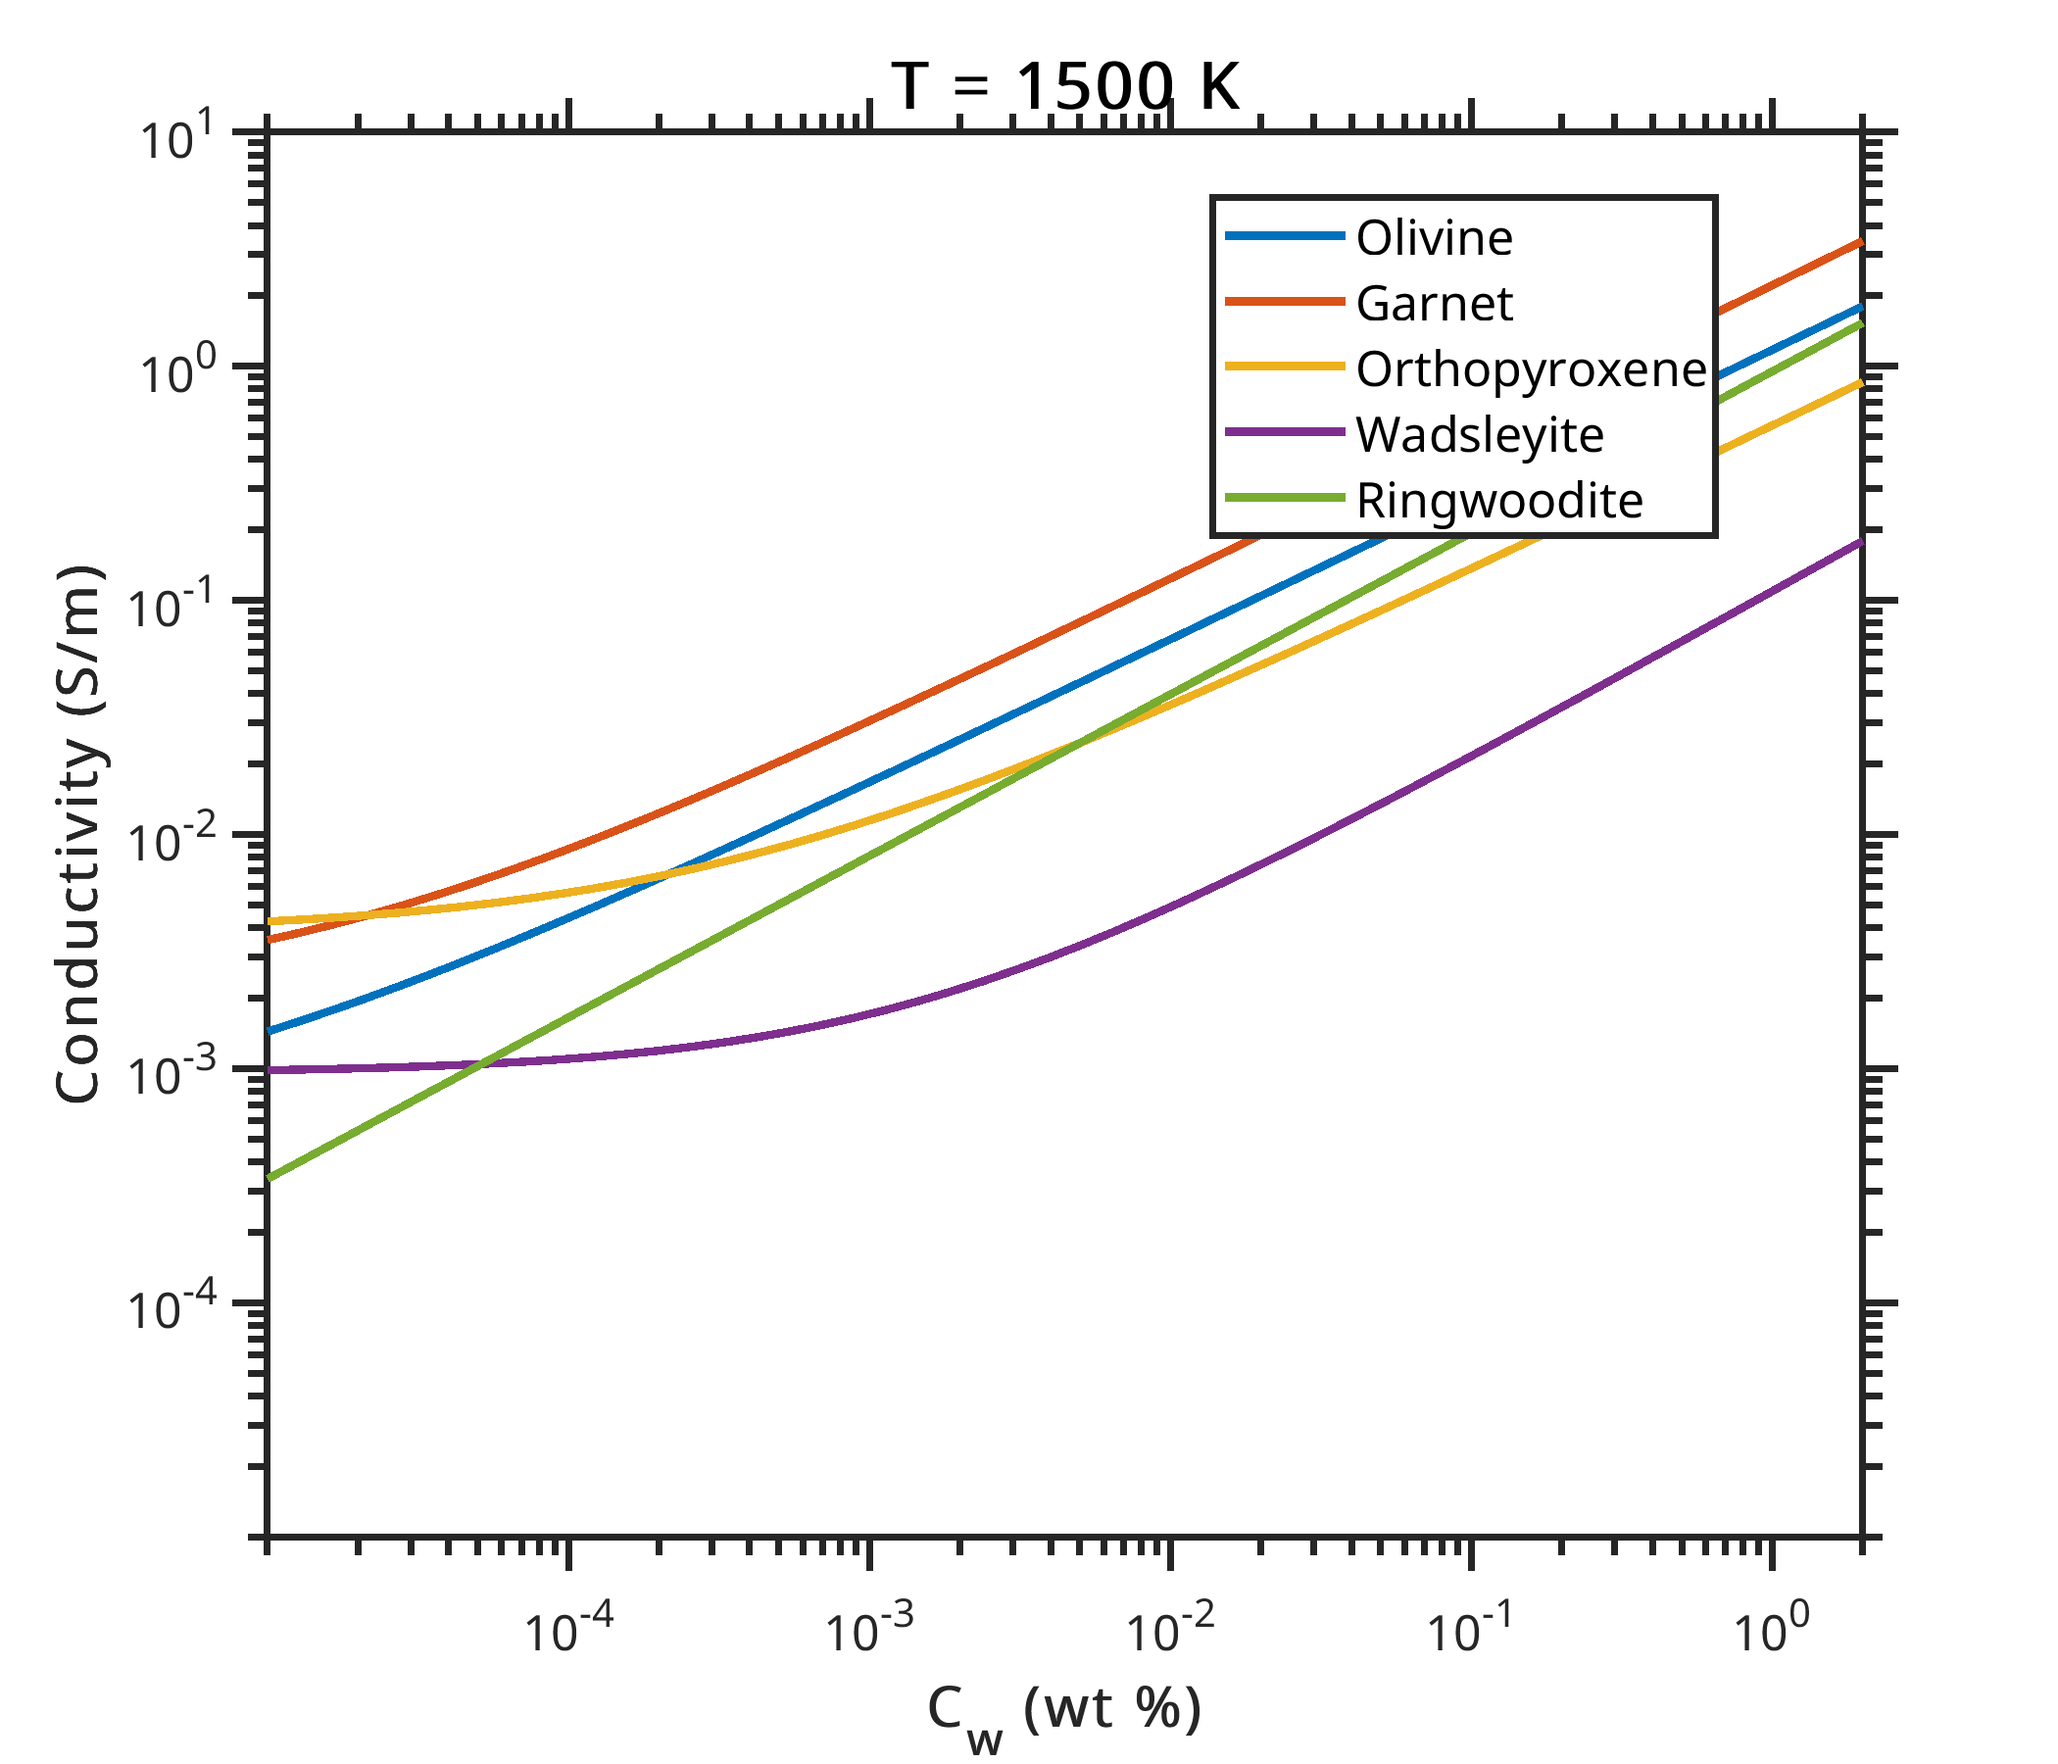
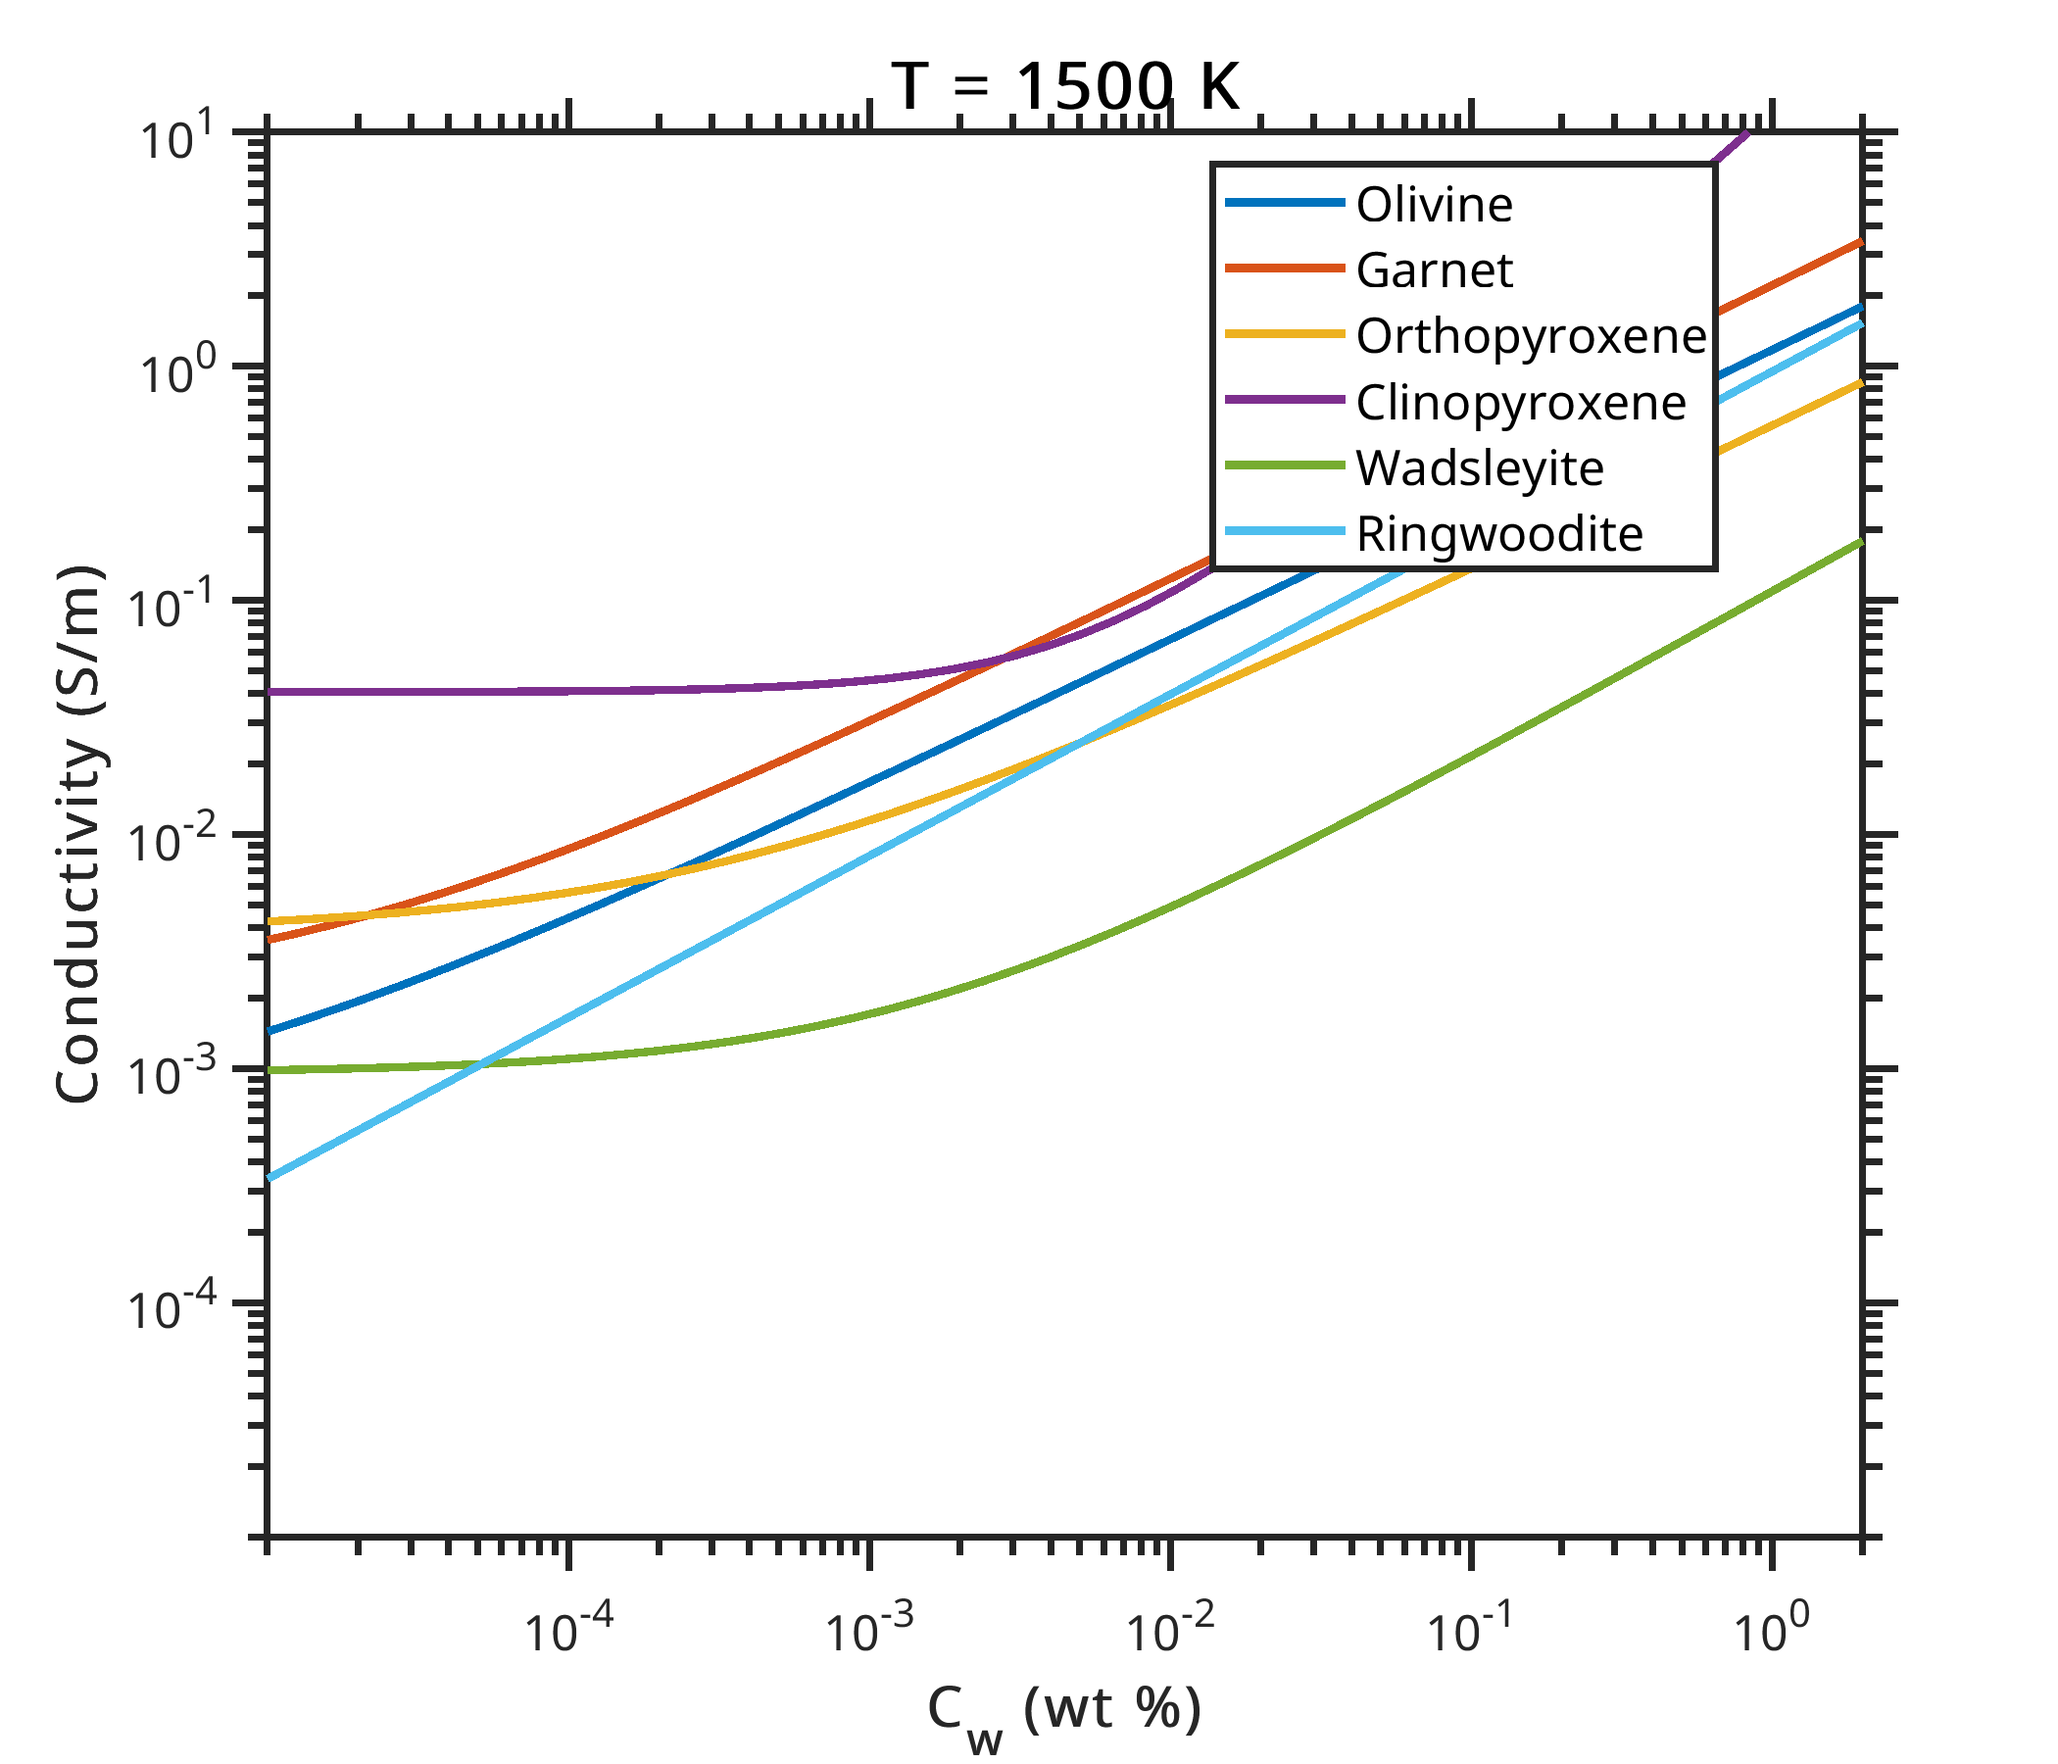
more work

diff --git a/find_pressure_for_depth.m b/find_pressure_for_depth.m
@@ -1,0 +1,55 @@
+% Function to find the pressure associated with a given depth using interpolation
+function pressure = find_pressure_for_depth(inputDepth)
+    % Define the data points (depth in km and pressure in GPa)
+    % Depth-pressure data is based on the PREM model and other references.
+    data = [
+        0, 0.00; 5, 0.15; 10, 0.29; 15, 0.44; 20, 0.58; 25, 0.73; 30, 0.88; 35, 1.02; 40, 1.17; 45, 1.31; 
+        50, 1.46; 60, 1.79; 70, 2.12; 80, 2.45; 90, 2.79; 100, 3.12; 110, 3.45; 120, 3.78; 130, 4.12; 140, 4.45;
+        150, 4.78; 160, 5.12; 170, 5.45; 180, 5.78; 190, 6.11; 200, 6.45; 210, 6.78; 220, 7.11; 230, 7.45; 240, 7.79;
+        250, 8.14; 260, 8.48; 270, 8.82; 280, 9.17; 290, 9.51; 300, 9.86; 310, 10.2; 320, 10.55; 330, 10.9; 340, 11.25;
+        350, 11.6; 360, 11.95; 370, 12.3; 380, 12.65; 390, 13.0; 400, 13.35; 410, 13.73; 420, 14.1; 430, 14.48; 440, 14.85;
+        450, 15.23; 460, 15.61; 470, 15.99; 480, 16.37; 490, 16.75; 500, 17.13; 510, 17.52; 520, 17.91; 530, 18.29; 540, 18.68;
+        550, 19.07; 560, 19.46; 570, 19.86; 580, 20.25; 590, 20.65; 600, 21.04; 610, 21.44; 620, 21.84; 630, 22.24; 640, 22.64;
+        650, 23.04; 660, 23.43; 670, 23.83; 680, 24.27; 690, 24.71; 700, 25.15; 710, 25.59; 720, 26.03; 730, 26.48; 740, 26.92;
+        750, 27.36; 760, 27.81; 770, 28.25; 780, 28.7; 790, 29.14; 800, 29.59; 810, 30.04; 820, 30.48; 830, 30.93; 840, 31.38;
+        850, 31.82; 860, 32.27; 870, 32.72; 880, 33.17; 890, 33.62; 900, 34.07; 910, 34.53; 920, 34.98; 930, 35.43; 940, 35.88;
+        950, 36.34; 960, 36.79; 970, 37.24; 980, 37.7; 990, 38.15; 1000, 38.61; 1010, 39.07; 1020, 39.53; 1030, 39.98; 1040, 40.44;
+        1050, 40.9; 1060, 41.36; 1070, 41.81; 1080, 42.28; 1090, 42.74; 1100, 43.2; 1110, 43.67; 1120, 44.13; 1130, 44.59; 1140, 45.05;
+        1150, 45.52; 1160, 45.98; 1170, 46.44; 1180, 46.91; 1190, 47.38; 1200, 47.85; 1210, 48.31; 1220, 48.78; 1230, 49.25; 1240, 49.72;
+        1250, 50.18; 1260, 50.65; 1270, 51.12; 1280, 51.59; 1290, 52.07; 1300, 52.54; 1310, 53.01; 1320, 53.49; 1330, 53.96; 1340, 54.43;
+        1350, 54.91; 1360, 55.38; 1370, 55.85; 1380, 56.33; 1390, 56.81; 1400, 57.29; 1410, 57.76; 1420, 58.24; 1430, 58.72; 1440, 59.2;
+        1450, 59.68; 1460, 60.16; 1470, 60.64; 1480, 61.12; 1490, 61.6; 1500, 62.09; 1510, 62.57; 1520, 63.05; 1530, 63.54; 1540, 64.02;
+        1550, 64.5; 1560, 64.99; 1570, 65.47; 1580, 65.96; 1590, 66.45; 1600, 66.94; 1610, 67.43; 1620, 67.92; 1630, 68.41; 1640, 68.9;
+        1650, 69.38; 1660, 69.87; 1670, 70.36; 1680, 70.86; 1690, 71.35; 1700, 71.85; 1710, 72.34; 1720, 72.84; 1730, 73.33; 1740, 73.83;
+        1750, 74.32; 1760, 74.82; 1770, 75.31; 1780, 75.81; 1790, 76.31; 1800, 76.81; 1810, 77.31; 1820, 77.81; 1830, 78.31; 1840, 78.81;
+        1850, 79.31; 1860, 79.82; 1870, 80.32; 1880, 80.82; 1890, 81.33; 1900, 81.84; 1910, 82.34; 1920, 82.85; 1930, 83.36; 1940, 83.86;
+        1950, 84.37; 1960, 84.88; 1970, 85.38; 1980, 85.9; 1990, 86.41; 2000, 86.92; 2010, 87.43; 2020, 87.95; 2030, 88.46; 2040, 88.97;
+        2050, 89.49; 2060, 90.0; 2070, 90.51; 2080, 91.03; 2090, 91.55; 2100, 92.07; 2110, 92.59; 2120, 93.11; 2130, 93.63; 2140, 94.15;
+        2150, 94.67; 2160, 95.19; 2170, 95.71; 2180, 96.24; 2190, 96.77; 2200, 97.29; 2210, 97.82; 2220, 98.35; 2230, 98.87; 2240, 99.4;
+        2250, 99.93; 2260, 100.46; 2270, 100.98; 2280, 101.52; 2290, 102.05; 2300, 102.59; 2310, 103.12; 2320, 103.66; 2330, 104.19; 2340, 104.73;
+        2350, 105.26; 2360, 105.8; 2370, 106.33; 2380, 106.88; 2390, 107.42; 2400, 107.96; 2410, 108.51; 2420, 109.05; 2430, 109.59; 2440, 110.14;
+        2450, 110.68; 2460, 111.22; 2470, 111.77; 2480, 112.32; 2490, 112.87; 2500, 113.42; 2510, 113.98; 2520, 114.53; 2530, 115.08; 2540, 115.63;
+        2550, 116.19; 2560, 116.74; 2570, 117.29; 2580, 117.85; 2590, 118.42; 2600, 118.98; 2610, 119.54; 2620, 120.1; 2630, 120.67; 2640, 121.23;
+        2650, 121.79; 2660, 122.35; 2670, 122.92; 2680, 123.49; 2690, 124.06; 2700, 124.63; 2710, 125.2; 2720, 125.77; 2730, 126.35; 2740, 126.92;
+        2750, 127.49; 2760, 128.07; 2770, 128.65; 2780, 129.23; 2790, 129.82; 2800, 130.4; 2900, 136.0
+    ];
+
+    % If inputDepth is less than or equal to the smallest depth, return the smallest pressure
+    if inputDepth <= data(1, 1)
+        pressure = data(1, 2);
+        return;
+    end
+
+    % If inputDepth is greater than or equal to the largest depth, return the largest pressure
+    if inputDepth >= data(end, 1)
+        pressure = data(end, 2);
+        return;
+    end
+
+    % Find the index of the first element that is not less than inputDepth
+    idx = find(data(:, 1) >= inputDepth, 1);
+
+    % Perform linear interpolation between the found point and the previous point
+    pressure = linearInterpolate(data(idx - 1, 1), data(idx - 1, 2), data(idx, 1), data(idx, 2), inputDepth);
+end
+

diff --git a/Karato_clinopyroxene_conductivity.m b/Karato_clinopyroxene_conductivity.m
@@ -1,8 +1,8 @@
 % ------------------------------------------------------------------------
-% FUNCTION: Karato_garnet_conductivity
+% FUNCTION: Karato_clinopyroxene_conductivity
 % ------------------------------------------------------------------------
 % DESCRIPTION:
-% Compute the conductivity of garnet using Karato's group high temperature
+% Compute the conductivity of clinopyroxene using Karato's group high temperature
 % and pressure experiments.
 %
 % FORMULA:
@@ -15,16 +15,15 @@
 %   - r1, r2 are constants that depend on the mechanism of electrical conduction.
 %   - E1, E2 are the activation energies.
 %   - V1, V2 are the activation volumes.
-%   - Subscript 1 stands for polaron conduction.
+%   - Subscript 1 stands for polaron conduction (e.g., Fe).
 %   - Subscript 2 stands for proton conduction (e.g., H).
-%   - T is absolute temperature (in Kelvin)
-%   - P is the pressure (in Pascal)
 %
 % REFERENCES:
 % Values of A, r, E, V are from:
-%   Karato, S. I. (2011). Water distribution across the mantle transition zone
-%   and its implications for global material circulation. Earth and Planetary
-%   Science Letters, 301(3–4), 413–423. https://doi.org/10.1016/j.epsl.2010.11.038
+%   Xiaozhi Yang, Hans Keppler, Catherine McCammon, Huaiwei Ni, Qunke Xia, Qicheng Fan (2011). 
+%   Effect of water on the electrical conductivity of lower crustal clinopyroxene,
+%   Journal of Geophysical Research: Solid Earth, 116(B4),
+%   https://agupubs.onlinelibrary.wiley.com/doi/full/10.1029/2010JB008010
 %
 % UNITS:
 %   - temperature: Kelvin (K); 0 K is equivalent to -273.15°C.
@@ -32,25 +31,25 @@
 %   - pressure: Pascal (Pa); 1 Pa = 1 J/m³ = 1e-6 J/cc.
 %
 % INPUTS:
-%   T   - Temperature in Kelvin.
-%   Cw  - Water content (dimensionless).
-%   P   - Pressure in Pascal.
+%   temperature   - Temperature in Kelvin.
+%   water_content - Water content (dimensionless) (wt%).
+%   pressure      - Pressure in Pascal.
 %
 % OUTPUT:
 %   sigma - Electrical conductivity (S/m).
 % ------------------------------------------------------------------------
 
-function sigma = Karato_garnet_conductivity(T, Cw, P)
+function sigma = Karato_clinopyroxene_conductivity(T, Cw, P)
     % Constants
     R = 8.314;       % Gas constant, J/(K⋅mol)
-    A1 = 10^(2.1);   % Pre-exponential factor for polaron conduction, S/m
-    A2 = 10^(2.7);   % Pre-exponential factor for proton conduction, S/m
+    A1 = 10^(2.16);  % Pre-exponential factor for polaron conduction (dry), S/m
+    A2 = 10^(3.56);  % Pre-exponential factor for proton conduction (wet), S/m
     r1 = 0;          % Empirical constant for polaron conduction
-    r2 = 0.63;       % Empirical constant for proton conduction
-    E1 = 128000;     % Activation energy for polaron conduction, J/mol
-    E2 = 70000;      % Activation energy for proton conduction, J/mol
-    V1 = 2.5;        % Activation volume for polaron conduction, cc/mol
-    V2 = -0.6;        % Activation volume for proton conduction, cc/mol
+    r2 = 1.13;       % Empirical constant for proton conduction
+    E1 = 102000;     % Activation energy for polaron conduction, J/mol
+    E2 = 71000;      % Activation energy for proton conduction, J/mol
+    V1 = 0.0;        % Activation volume for polaron conduction, cc/mol
+    V2 = 0.0;        % Activation volume for proton conduction, cc/mol
 
     % Check if temperature is greater than zero
     if T <= 0
@@ -71,8 +70,8 @@ function sigma = Karato_garnet_conductivity(T, Cw, P)
     end
 
     % Calculate conductivities
-    sigma_polaron = A1 * Cw.^r1 .* exp(-(E1 + P * V1) / (R * T));
-    sigma_proton =  A2 * Cw.^r2 .* exp(-(E2 + P * V2) / (R * T));
+    sigma_polaron = A1 * Cw^r1 * exp(-(E1 + P * V1) / (R * T));
+    sigma_proton =  A2 * Cw^r2 * exp(-(E2 + P * V2) / (R * T));
 
     % Sum the conductivities
     sigma = sigma_polaron + sigma_proton;

diff --git a/Kgroup_test.m b/Kgroup_test.m
@@ -1,3 +1,9 @@
+
+% This purpose of this script to test the results shown in the citation
+% [1] Karato, S. I. (2011). Water distribution across the mantle transition zone
+%  and its implications for global material circulation. Earth and Planetary
+%  Science Letters, 301(3–4), 413–423. https://doi.org/10.1016/j.epsl.2010.11.038
+
 clear;
 
 T = 1500;   % Temperature in Kelvin
@@ -8,10 +14,13 @@ garnet = zeros(xn, 1);
 wadsleyite = zeros(xn, 1);
 ringwoodite=zeros(xn,1);
 orthopyroxene=zeros(xn,1);
+clinopyroxene=zeros(xn,1);
+
 for i = 1:xn
     olivine(i) = Karato_olivine_conductivity(T, Cw(i), 4 * 1e9);
     garnet(i) = Karato_garnet_conductivity(T, Cw(i), 4 * 1e9);
     orthopyroxene(i)=Karato_orthopyroxene_conductivity(T, Cw(i), 4 * 1e9);
+    clinopyroxene(i)=Karato_clinopyroxene_conductivity(T, Cw(i), 4 * 1e9);
     wadsleyite(i) = Karato_wadsleyite_conductivity(T, Cw(i), 15 * 1e9);
     ringwoodite(i)=Karato_ringwoodite_conductivity(T,Cw(i), 15*1e9);
 end
@@ -24,6 +33,7 @@ plot(Cw, olivine, '-', 'LineWidth', 2);
 hold on;
 plot(Cw, garnet, '-', 'LineWidth', 2);
 plot(Cw, orthopyroxene, '-', 'LineWidth', 2);
+plot(Cw, clinopyroxene, '-', 'LineWidth', 2);
 plot(Cw, wadsleyite, '-', 'LineWidth', 2);
 plot(Cw, ringwoodite, '-', 'LineWidth', 2);
 hold off;
@@ -37,7 +47,7 @@ ylabel('Conductivity (S/m)', 'FontSize', 14, 'FontWeight', 'bold');
 title('T = 1500 K', 'FontSize', 16, 'FontWeight', 'bold');
 
 % Adding legend to distinguish between minerals
-legend('Olivine', 'Garnet', 'Orthopyroxene','Wadsleyite', 'Ringwoodite' ,'Location', 'best', 'FontSize', 12);
+legend('Olivine', 'Garnet', 'Orthopyroxene', 'Clinopyroxene', 'Wadsleyite', 'Ringwoodite' ,'Location', 'best', 'FontSize', 12);
 
 % Customize axes and box
 set(gca, 'LineWidth', 1.5, 'TickDir', 'out', 'TickLength', [0.02 0.02]);
@@ -46,3 +56,12 @@ box on;
 % Export the plot as a high-resolution image
 print(gcf, 'Conductivity_vs_WaterContent', '-dpng', '-r300'); % 300 DPI for publication
 close all; % Close any open figures at the start
+
+
+% Pyrolite mantle model which is a term used to characterize a model composition of the Earth's mantle. 
+% 1) A pyrolitic Upper Mantle is mainly composed of olivine (~60 volume percent (vol%)), clinopyroxene, orthopyroxene, and garnet.
+% [7] Pyroxene would gradually dissolved into garnet and form majoritic garnet.[10]
+
+2) A pyrolitic Mantle Transition Zone is mainly composed of 60 vol% olivine-polymorphs (wadsleyite, ringwoodite) and ~40 vol% majoritic garnet. The top and bottom boundary of the Mantle Transition zone are mainly marked by olivine-wadsleyite transition and ringwoodite-perovskite transition, respectively.
+
+3) A pyrolitic Lower Mantle is mainly composed of magnesium perovskite (~80 vol%), ferroperclase (~13 vol%), and calcium perovskite (~7%). In addition, post-perovskite may present at the bottom of the Lower Mantle.

diff --git a/linearInterpolate.m b/linearInterpolate.m
@@ -1,0 +1,4 @@
+% Linear interpolation function
+function y = linearInterpolate(x0, y0, x1, y1, x)
+    y = y0 + (y1 - y0) * ((x - x0) / (x1 - x0));
+end
